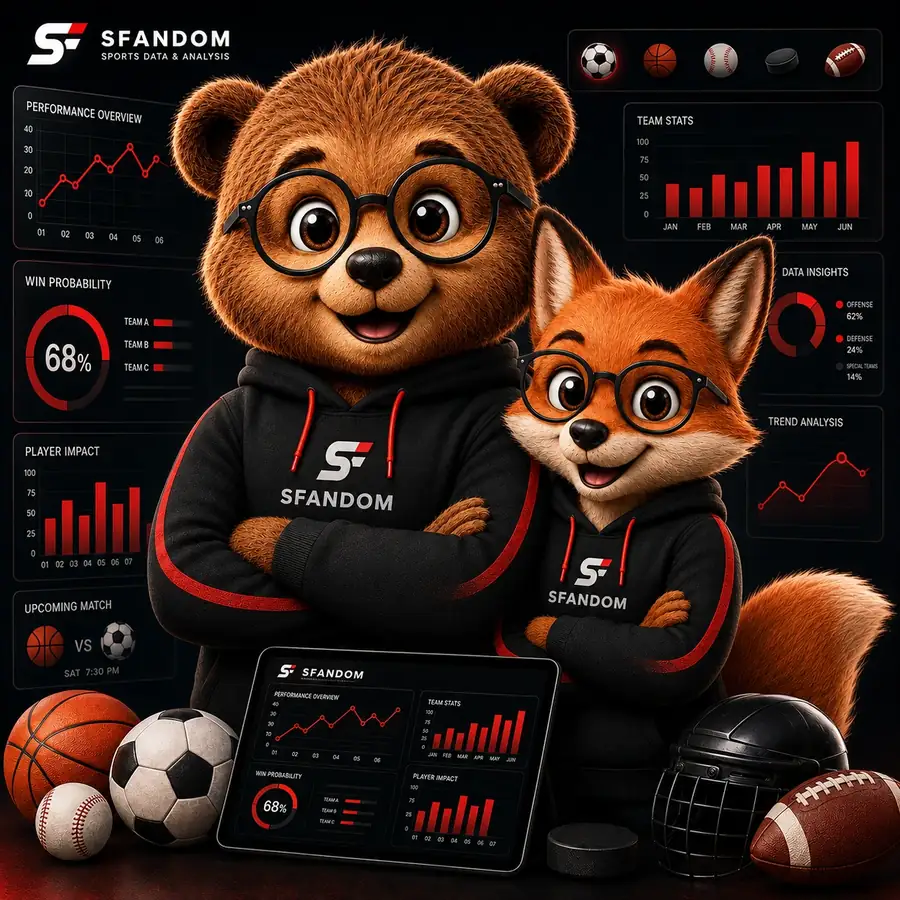
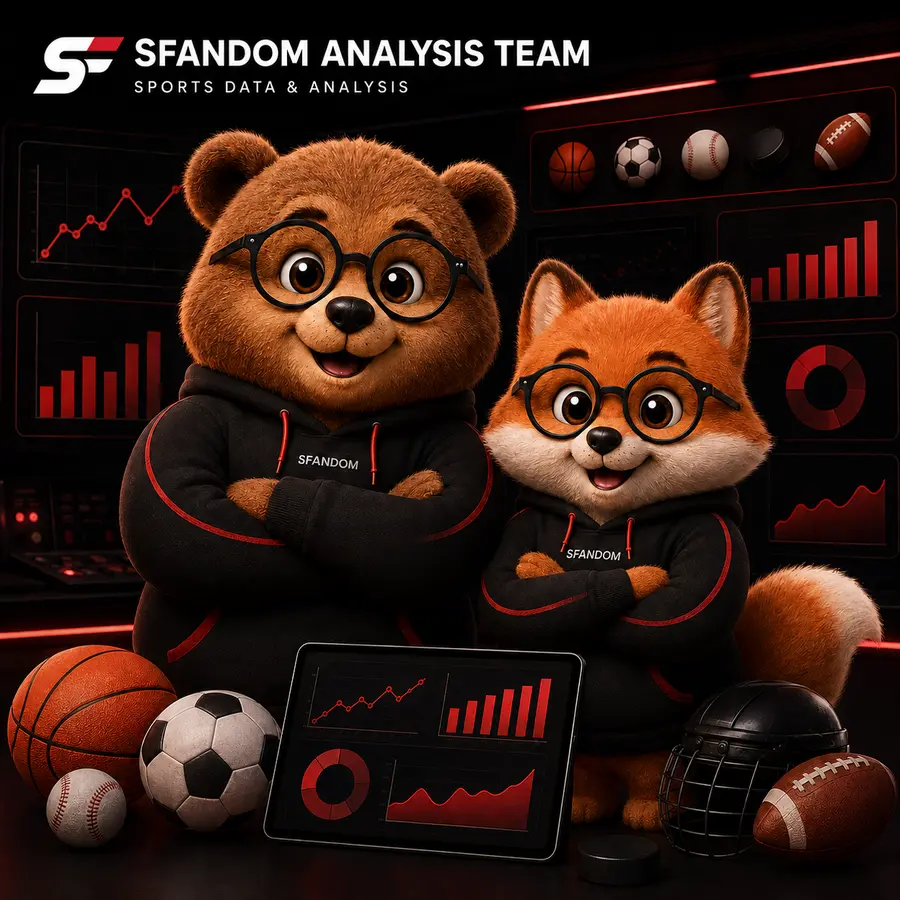
Replace Ji and Kairo analysis artwork

diff --git a/home.css b/home.css
@@ -27,7 +27,7 @@
 .promise-head{display:grid;grid-template-columns:1.25fr .75fr;gap:80px;align-items:end}.promise-head h2{font-size:clamp(3rem,5.3vw,5.6rem)}.promise-head h2 em{font-style:normal;color:#73736f}.promise-head>p{color:var(--muted);margin:0 0 10px}.promise-grid{display:grid;grid-template-columns:repeat(4,1fr);margin-top:70px;border-top:1px solid var(--line);border-left:1px solid var(--line)}.promise-grid article{min-height:290px;padding:28px;border-right:1px solid var(--line);border-bottom:1px solid var(--line);transition:.25s}.promise-grid article:hover{background:#0e0e0e;transform:translateY(-4px)}.promise-grid article>b{color:var(--accent);font-size:.7rem}.promise-grid h3{font-size:1.25rem;margin:62px 0 10px}.promise-grid p{color:var(--muted);font-size:.9rem}.promise-grid span{display:block;margin-top:30px;font-size:.61rem;letter-spacing:.11em;color:#777}
 .data-zone{border-top:1px solid var(--line);border-bottom:1px solid var(--line)}.data-zone-grid{display:grid;grid-template-columns:1fr 1fr;gap:72px;align-items:center}.data-copy h2{font-size:clamp(2.9rem,4.2vw,4.65rem);line-height:1.02;word-break:keep-all}.data-copy>p:not(.eyebrow){color:var(--muted);max-width:540px;word-break:keep-all}.matrix{background:#0c0c0c;border:1px solid var(--line);padding:28px}.matrix-head{padding-bottom:20px;border-bottom:1px solid var(--line);font-size:.64rem;letter-spacing:.15em;color:#7d7d78}.matrix-row{display:grid;grid-template-columns:145px 1fr 40px;gap:18px;align-items:center;padding:19px 0;border-bottom:1px solid #1b1b1b}.matrix-row>span{font-size:.67rem;color:#8f8f89}.matrix-row em{font-style:normal;text-align:right;font-size:.82rem}.matrix-foot{padding-top:22px;font-size:.68rem;letter-spacing:.12em}.matrix-foot strong{color:var(--accent)}
 .content-zone h2{font-size:clamp(3rem,5.2vw,5.6rem)}.content-rail{display:grid;grid-template-columns:repeat(4,1fr);gap:12px}.content-rail a{min-height:340px;padding:24px;text-decoration:none;border:1px solid var(--line);background:linear-gradient(160deg,#111,#090909 72%);display:flex;flex-direction:column;transition:.28s}.content-rail a:hover{border-color:#454545;transform:translateY(-7px)}.content-rail a:nth-child(2){background:linear-gradient(160deg,#1a0b0c,#090909 72%)}.content-rail small{color:#777;letter-spacing:.12em}.content-rail b{font-size:2.15rem;line-height:.92;letter-spacing:-.04em;margin:auto 0}.content-rail span{font-size:.65rem;letter-spacing:.16em;color:var(--accent)}
-.home-team{display:grid;grid-template-columns:.92fr 1.08fr;gap:72px;align-items:center;border-top:1px solid var(--line);background:linear-gradient(115deg,rgba(226,35,42,.075),transparent 45%)}.home-team-art{position:relative;min-height:560px;border:1px solid #252525;background:#050505;overflow:hidden}.home-team-visual{position:absolute;inset:0;width:100%;height:100%;display:block;object-fit:cover;object-position:center}.home-team-art:before{content:"";position:absolute;inset:0;z-index:1;pointer-events:none;background:linear-gradient(180deg,rgba(5,5,5,.02) 0%,rgba(5,5,5,.02) 56%,rgba(5,5,5,.78) 100%)}.home-team-art:after{content:"";position:absolute;z-index:1;left:8%;right:8%;bottom:-20px;height:100px;background:rgba(226,35,42,.2);filter:blur(46px)}.home-team-art>span{position:absolute;z-index:3;top:18px;left:20px;font-size:.58rem;font-weight:800;letter-spacing:.16em;color:#c4c4c7}.home-team-brand{position:absolute;z-index:3;left:20px;bottom:18px;display:flex;align-items:center;gap:9px;padding:9px 11px;border:1px solid rgba(255,255,255,.15);background:rgba(5,5,5,.76);backdrop-filter:blur(8px)}.home-team-brand img{display:block;width:30px;height:30px;object-fit:contain}.home-team-brand strong{font-size:.83rem;font-weight:900;letter-spacing:.12em;color:#fff}.home-team-copy h2{font-size:clamp(3rem,5vw,5.4rem);line-height:1.02;word-break:keep-all}.home-team-copy>p:not(.eyebrow){max-width:620px;margin:30px 0 0;color:var(--muted);word-break:keep-all}
+.home-team{display:grid;grid-template-columns:.92fr 1.08fr;gap:72px;align-items:center;border-top:1px solid var(--line);background:linear-gradient(115deg,rgba(226,35,42,.075),transparent 45%)}.home-team-art{position:relative;min-height:560px;border:1px solid #252525;background:#050505;overflow:hidden}.home-team-visual{position:absolute;inset:0;width:100%;height:100%;display:block;object-fit:cover;object-position:center}.home-team-copy h2{font-size:clamp(3rem,5vw,5.4rem);line-height:1.02;word-break:keep-all}.home-team-copy>p:not(.eyebrow){max-width:620px;margin:30px 0 0;color:var(--muted);word-break:keep-all}
 .manifesto{border-top:1px solid var(--line)}.manifesto h2{font-size:clamp(3.6rem,7vw,7rem);font-weight:900}.manifesto h2 span{color:#363636}.manifesto>div{display:flex;justify-content:space-between;align-items:end;gap:40px;margin-top:55px}.manifesto>div p{color:#aaa;font-size:1.05rem}
 .reveal{opacity:0;transform:translateY(24px);transition:opacity .7s ease,transform .7s ease}.reveal.show{opacity:1;transform:none}
 @keyframes pulse{50%{opacity:.35;transform:scale(.7)}}@keyframes ticker{to{transform:translateX(-35%)}}
@@ -89,7 +89,7 @@
   .promise-head>p,.data-copy>p:not(.eyebrow),.home-team-copy>p:not(.eyebrow),.manifesto>div p{max-width:560px;margin-left:auto;margin-right:auto;text-align:center;text-wrap:balance}
   .section-head{align-items:center}.section-head .text-link{align-self:center}
   .ticker-track{padding-top:14px;padding-bottom:14px}
-  .home-team{padding-top:34px;padding-bottom:48px;gap:26px}.home-team-art{height:400px;min-height:0}.home-team-visual{object-position:center}.home-team-art>span{top:14px;left:14px;color:#d0d0d3}.home-team-brand{left:14px;bottom:14px;padding:7px 9px}.home-team-brand img{width:26px;height:26px}.home-team-brand strong{font-size:.72rem}
+  .home-team{padding-top:34px;padding-bottom:48px;gap:26px}.home-team-art{height:400px;min-height:0}.home-team-visual{object-position:center}
   .manifesto{padding-top:56px;padding-bottom:38px}.manifesto>div{margin-top:28px;gap:20px;align-items:center}.manifesto>div p{margin-top:0;margin-bottom:0}.manifesto .btn{align-self:center;width:min(280px,82vw);min-height:56px;justify-content:center;margin:2px auto 0;padding-left:20px;padding-right:20px}
   .promise-grid,.content-rail{grid-template-columns:1fr}.promise-grid article{min-height:220px}.matrix-row{grid-template-columns:115px 1fr 36px;gap:9px}
   .signature-top{padding:15px 14px 12px}.signature-brand{font-size:.66rem}.signature-brand img{width:25px;height:25px}.signature-identity{max-width:62%;font-size:.52rem;line-height:1.45}.signature-counter{left:10px;top:10px;font-size:.52rem;padding:6px 7px}.signature-copy{left:12px;bottom:16px;max-width:76%}.signature-copy h2{font-size:clamp(1.65rem,9.2vw,3rem)}.signature-copy p{margin-top:9px;font-size:.52rem;padding:5px 6px}.signature-watermark{right:9px;bottom:10px;width:40px;height:40px;padding:5px}.signature-foot{padding:11px 14px 13px;align-items:flex-start;flex-direction:column;gap:10px}.signature-dots{width:100%;justify-content:space-between}.signature-dot{flex:1;max-width:28px}

diff --git a/index.html b/index.html
@@ -82,7 +82,7 @@
 
     <section class="section content-zone reveal"><div class="section-head"><div><p class="eyebrow">SPORTS CONTENT</p><h2>Fast on the Essentials.<br>Deep on the Analysis.</h2></div><a class="text-link" href="content.html">전체 콘텐츠 보기 →</a></div><div class="content-rail"><a href="content.html"><small>10:00</small><b>DATA<br>FORECAST</b><span>PRE-GAME</span></a><a href="content.html"><small>14:00</small><b>HOT<br>ISSUE</b><span>NEWS</span></a><a href="content.html"><small>18:00</small><b>MATCH<br>FOCUS</b><span>FOCUS</span></a><a href="content.html"><small>22:00</small><b>GAME<br>REVIEW</b><span>RECAP</span></a></div></section>
 
-    <section class="section home-team reveal"><div class="home-team-art"><img class="home-team-visual" src="assets/sfandom-ji-kairo-analysis-20260828.webp" alt="SFANDOM bear and fox mascots analyzing multi-sport data"><div class="home-team-brand" aria-label="SFANDOM"><img src="assets/sfandom-logo-official.png" alt="" aria-hidden="true"><strong>SFANDOM</strong></div><span>JI · KAIRO · ANALYSIS TEAM</span></div><div class="home-team-copy"><p class="eyebrow">KAIRO'S NOTE</p><h2>Built Together by<br>Ji &amp; KAIRO.</h2><p>SFANDOM은 스포츠 분석가 Ji와 AI 분석 파트너 KAIRO가 함께 운영합니다. Ji의 분석 경험과 판단에 KAIRO의 데이터 정리·비교 분석·복기가 더해져, 경기 전후의 핵심 근거를 빠르고 이해하기 쉽게 전달합니다.</p></div></section>
+    <section class="section home-team reveal"><div class="home-team-art"><img class="home-team-visual" src="assets/sfandom-ji-kairo-analysis-20260828.webp" alt="SFANDOM bear and fox mascots analyzing multi-sport data"></div><div class="home-team-copy"><p class="eyebrow">KAIRO'S NOTE</p><h2>Built Together by<br>Ji &amp; KAIRO.</h2><p>SFANDOM은 스포츠 분석가 Ji와 AI 분석 파트너 KAIRO가 함께 운영합니다. Ji의 분석 경험과 판단에 KAIRO의 데이터 정리·비교 분석·복기가 더해져, 경기 전후의 핵심 근거를 빠르고 이해하기 쉽게 전달합니다.</p></div></section>
 
     <section class="section manifesto reveal"><p class="eyebrow">SFANDOM MANIFESTO</p><h2>Sports Are Full of Variables.<br><span>Data Creates the Standard for Decisions.</span></h2><div><p>우리는 예측을 포장하지 않습니다.<br>우리는 판단의 근거를 설계합니다.</p><a class="btn primary" href="about.html">SFANDOM 소개 →</a></div></section>
   </main>
